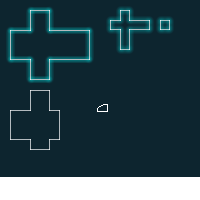
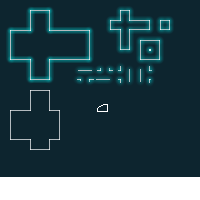
Add a basic office building procedural generation algorithm.

Changed region(s): [[0.69, 0.18, 0.81, 0.42], [0.36, 0.33, 0.66, 0.42]]

diff --git a/src/MapGenerator.java b/src/MapGenerator.java
@@ -18,6 +18,8 @@ public class MapGenerator {
 	
 	public ArrayList<Rectangle> buildRegion = new ArrayList<Rectangle>();
 	
+	public ArrayList<Rectangle> hallway = new ArrayList<Rectangle>();
+	
 	public MapGenerator() throws SlickException {
 		generateEmptyMap();
 	}
@@ -182,9 +184,28 @@ public class MapGenerator {
 	public void sliceRegion(int id, boolean ver){
 		Rectangle r = temRegion.get( id);
 		if( ver){
-			if( r.getHeight() > 16) {
-				int line = rand.nextInt( (int)r.getHeight()/2 - 7 ) + 5;
+			if( Math.random() > CONST.BISLICE && r.getHeight() > 16 /*&& r.getWidth() > 4*/){
+				int line = (int)r.getHeight()/2 + rand.nextInt(6) - 3;
 				
+				int newId = temRegion.size();
+				
+				temRegion.add(
+						new Rectangle( r.getX(),
+						r.getY(),
+						r.getWidth(),
+						line));
+				temRegion.add(
+						new Rectangle( r.getX(),
+						r.getY() + line - 1,
+						r.getWidth(),
+						r.getHeight() - line + 1));
+				sliceRegion( newId, line > r.getWidth());
+				sliceRegion( newId + 1, r.getHeight() - line + 1 < r.getWidth());
+			}
+			else if( r.getHeight() > 16 /*&& r.getWidth() > 4*/) {
+				int line = rand.nextInt( (int)r.getHeight()/2 - 7 ) + 5;
+
+				int newId = temRegion.size();
 				temRegion.add(
 						new Rectangle( r.getX(),
 						r.getY(),
@@ -200,19 +221,46 @@ public class MapGenerator {
 						r.getY() + line - 1,
 						r.getWidth(),
 						r.getHeight() -2 * line  + 2));
-				if( r.getHeight() -2 * line  + 2 > line)
-					sliceRegion( temRegion.size() - 1, false);
+				if( r.getHeight() -2 * line  + 2 > line){
+					sliceRegion( newId + 2, r.getHeight() -2 * line  + 2 > r.getWidth());
+
+					roomBuildingValidation(  newId);
+					roomBuildingValidation(  newId + 1);
+				}
 				else{
-					sliceRegion( id + 1, false);
-					sliceRegion( id + 2, false);
+					sliceRegion( newId, r.getWidth() < line);
+					sliceRegion( newId + 1, r.getWidth() < line);
+
+					roomBuildingValidation(  newId + 2);
 				}
 			}
 			else{
+				buildRegion.add( r);
 			}
 		}
 		else{
-			if( r.getWidth() > 16) {
-				int line = rand.nextInt( (int)r.getWidth()/2 - 7 ) + 5;
+			if( Math.random() > CONST.BISLICE && r.getWidth() > 16 /*&& r.getHeight() > 4*/){
+
+				int line = (int)r.getWidth()/2 + rand.nextInt(6) - 3;
+				
+				int newId = temRegion.size();
+				
+				temRegion.add(
+						new Rectangle( r.getX(),
+						r.getY(),
+						line,
+						r.getHeight()));
+				temRegion.add(
+						new Rectangle( r.getX() + line - 1,
+						r.getY(),
+						r.getWidth() - line + 1,
+						r.getHeight()));
+				sliceRegion( newId, line < r.getHeight());
+				sliceRegion( newId + 1, r.getWidth() - line + 1 > r.getHeight());
+			}
+			else if( r.getWidth() > 16 && r.getHeight() > 4) {
+				int line = rand.nextInt( (int)r.getWidth() / 2 - 7 ) + 5;
+				int newId = temRegion.size();
 				
 				temRegion.add(
 						new Rectangle(r.getX(),
@@ -230,41 +278,158 @@ public class MapGenerator {
 						r.getWidth() -2 * line  + 2,
 						r.getHeight()));
 				if( r.getWidth() -2 * line  + 2 > line){
-					sliceRegion( temRegion.size() - 1, true);
+					sliceRegion( newId + 2, r.getWidth() -2 * line  + 2 < r.getHeight());
+					
+					roomBuildingValidation(  newId);
+					roomBuildingValidation(  newId + 1);
 				}
 				else{
-					sliceRegion( id + 1, true);
-					sliceRegion( id + 2, true);
+					sliceRegion( newId, r.getHeight() > line);
+					sliceRegion( newId + 1, r.getHeight() > line);
+					
+					roomBuildingValidation(  newId + 2);
 				}
 			}
 			else{
-				
+				buildRegion.add( r);
 			}
 			
 		}
 	}
 
-	public void generateBuilding( int x, int y, int W, int H){
+	public void addHallway(int id, boolean ver){
+		
+		Rectangle r = temRegion.get( id);
+		int line;
+		
+		if( ver){
+			if( (float)5 / (float)r.getWidth() > 0.2)
+				line = (int)r.getWidth()/2 + rand.nextInt(6) - 3;
+			else
+				line = (int)r.getWidth()*( rand.nextInt(2) + 1)/4 + rand.nextInt(6) - 3;
+			
+			hallway.add(
+					new Rectangle( r.getX() + line - 1,
+							r.getY(),
+							5,
+							r.getHeight()));
+			
+			temRegion.add(
+					new Rectangle( r.getX(),
+					r.getY(),
+					line,
+					r.getHeight()));
+			temRegion.add(
+					new Rectangle( r.getX() + line + 3,
+					r.getY(),
+					r.getWidth() - line - 3,
+					r.getHeight()));
+		}
+		else{
+			if( 5/r.getHeight() > 0.2)
+				line = (int)r.getHeight()/2 + rand.nextInt(6) - 3;
+			else
+				line = (int)r.getHeight()*( rand.nextInt(2) + 1)/4 + rand.nextInt(6) - 3;
+			
+			hallway.add(
+					new Rectangle( r.getX(),
+							r.getY() + line - 1,
+							r.getWidth(),
+							5));
+			
+			temRegion.add(
+					new Rectangle( r.getX(),
+					r.getY(),
+					r.getWidth(),
+					line));
+			temRegion.add(
+					new Rectangle( r.getX(),
+					r.getY() + line + 3,
+					r.getWidth(),
+					r.getHeight() - line - 3));
+		}
+		
+		temRegion.remove(id);
+		
+	}
+	
+	public void roomBuildingValidation( int id){
+		 Rectangle r = temRegion.get( id);
+		 if( r.getHeight() < r.getWidth() && r.getHeight() * r.getWidth() > 100){
+			 sliceRegion( id, true);
+			 
+		 }
+		 else if( r.getHeight() >= r.getWidth() && r.getHeight() * r.getWidth() > 100){
+			 sliceRegion( id, false);
+		 }
+		 else{
+			 buildRegion.add( r);
+		 }
+	}
+
+	public void generateBuildingFloor( int x, int y, int W, int H){
 		temRegion.clear();
 		buildRegion.clear();
+		hallway.clear();
 		
-		drawOutline( x, y, W, H, 57);
+		//drawOutline( x, y, W, H, 57);
 		
-		temRegion.add( new Rectangle( x + 4, y + 4, W - 8, H - 8));
+		//	temRegion.add( new Rectangle( x + 4, y + 4, W - 8, H - 8));
+		temRegion.add( new Rectangle( x, y, W, H));
+		
+		if( (float)W / 5.f <= 2){
+			if( H == W)
+				addHallway( 0, rand.nextInt(2) == 1);
+			else
+				addHallway( 0, H > W);
+			
+			 sliceRegion( 0, true);
+			 sliceRegion( 1, true);
+		}
+		else if( (float)W / 5.f <= 10){
+			System.out.println(" Rapport: " + ((float)W / 5.f));
+			if( H == W){
+				addHallway( 0, rand.nextInt(2) == 1);
+				addHallway( 1, rand.nextInt(2) == 1);
+			}
+			else{
+				addHallway( 0, H > W);
+				addHallway( 1, H > W);
+			}
+			 sliceRegion( 0, true);
+			 sliceRegion( 1, true);
+			 sliceRegion( 2, true);
+		}
+		
+		//hallway.add( new Rectangle( x + W - 1, y, 5, H));
+		
+		//hallway.add( new Rectangle( x + W + 3, y + H / 2, 40, 5));
+		
+		
+		// addHallway( 1, false);
+		
+		///temRegion.add( new Rectangle( x + W + 3, y, 40, H / 2 + 1));
+		
+		///temRegion.add( new Rectangle( x + W + 3, y + H / 2 + 4, 40, H / 2 - 4));
 
-		drawOutline( temRegion.get(0), 57);
+		//drawOutline( temRegion.get(0), 57);
+		
 
-		sliceRegion( 0, false);
+		 //sliceRegion( 2, true);
 		
-		// sliceRegion( 1);
+		///sliceRegion( 1, W < H);
 		
-		for(Rectangle r : temRegion){
-			System.out.println(
+		///sliceRegion( 2, W < H);
+		int j = 1;
+		for(Rectangle r : buildRegion){
+			System.out.println( j +
 					" x: " + r.getX() +
 					" y: " + r.getY() + 
 					" W: " + r.getWidth() +
 					" H: " + r.getHeight());
 			drawOutline( r, 57);
+			
+			j++;
 		}
 		
 	}

diff --git a/src/PlayState.java b/src/PlayState.java
@@ -77,7 +77,7 @@ public class PlayState extends BasicGameState {
     	mapGen = new MapGenerator();
     	
     	//mapGen.generateLabyrinth( 0, 0, 80, 60);
-    	mapGen.generateBuilding( 2, 2, 90, 90);
+    	mapGen.generateBuildingFloor( 2, 2, 50, 50);
     	mapGen.tileCorrection();
     	
     	cityMap = new BasicMap( mapGen.getMap(), "solid");
@@ -89,7 +89,7 @@ public class PlayState extends BasicGameState {
     	 
     	 Vector2f pPop;
     	 int e=2;
-    	 while(e<5){
+    	 while(e<2){
     		 pPop = new Vector2f(
     				 (float)Math.floor( Math.random()*80),
     				 (float)Math.floor( Math.random()*60));
@@ -168,7 +168,7 @@ public class PlayState extends BasicGameState {
     	/** Regenerate the current map */
     	if(input.isKeyPressed(Input.KEY_SPACE)){
     		mapGen.generateEmptyMap();
-        	mapGen.generateBuilding( 2, 2, 90, 90);
+        	mapGen.generateBuildingFloor( 2, 2, 50, 50);
         	mapGen.tileCorrection();
         	cityMap.map = mapGen.getMap();
     	}

diff --git a/src/CONST.java b/src/CONST.java
@@ -1,8 +1,16 @@
 
 public class CONST {
+	/** Direction Constant */
 	public static final int NORTH = 0;
 	public static final int EAST = 1;
 	public static final int SOUTH = 2;
 	public static final int WEST = 3;
+
+	/** Pathfinder parameter */
 	public static final int MAX_PATH_LENGTH = 200;
+	
+	/** Building generator parameter */
+	public static final float BISLICE = 0.3f;
+	public static final int MINROOMX = 4;
+	public static final int MINROOMY = 4;
 }
